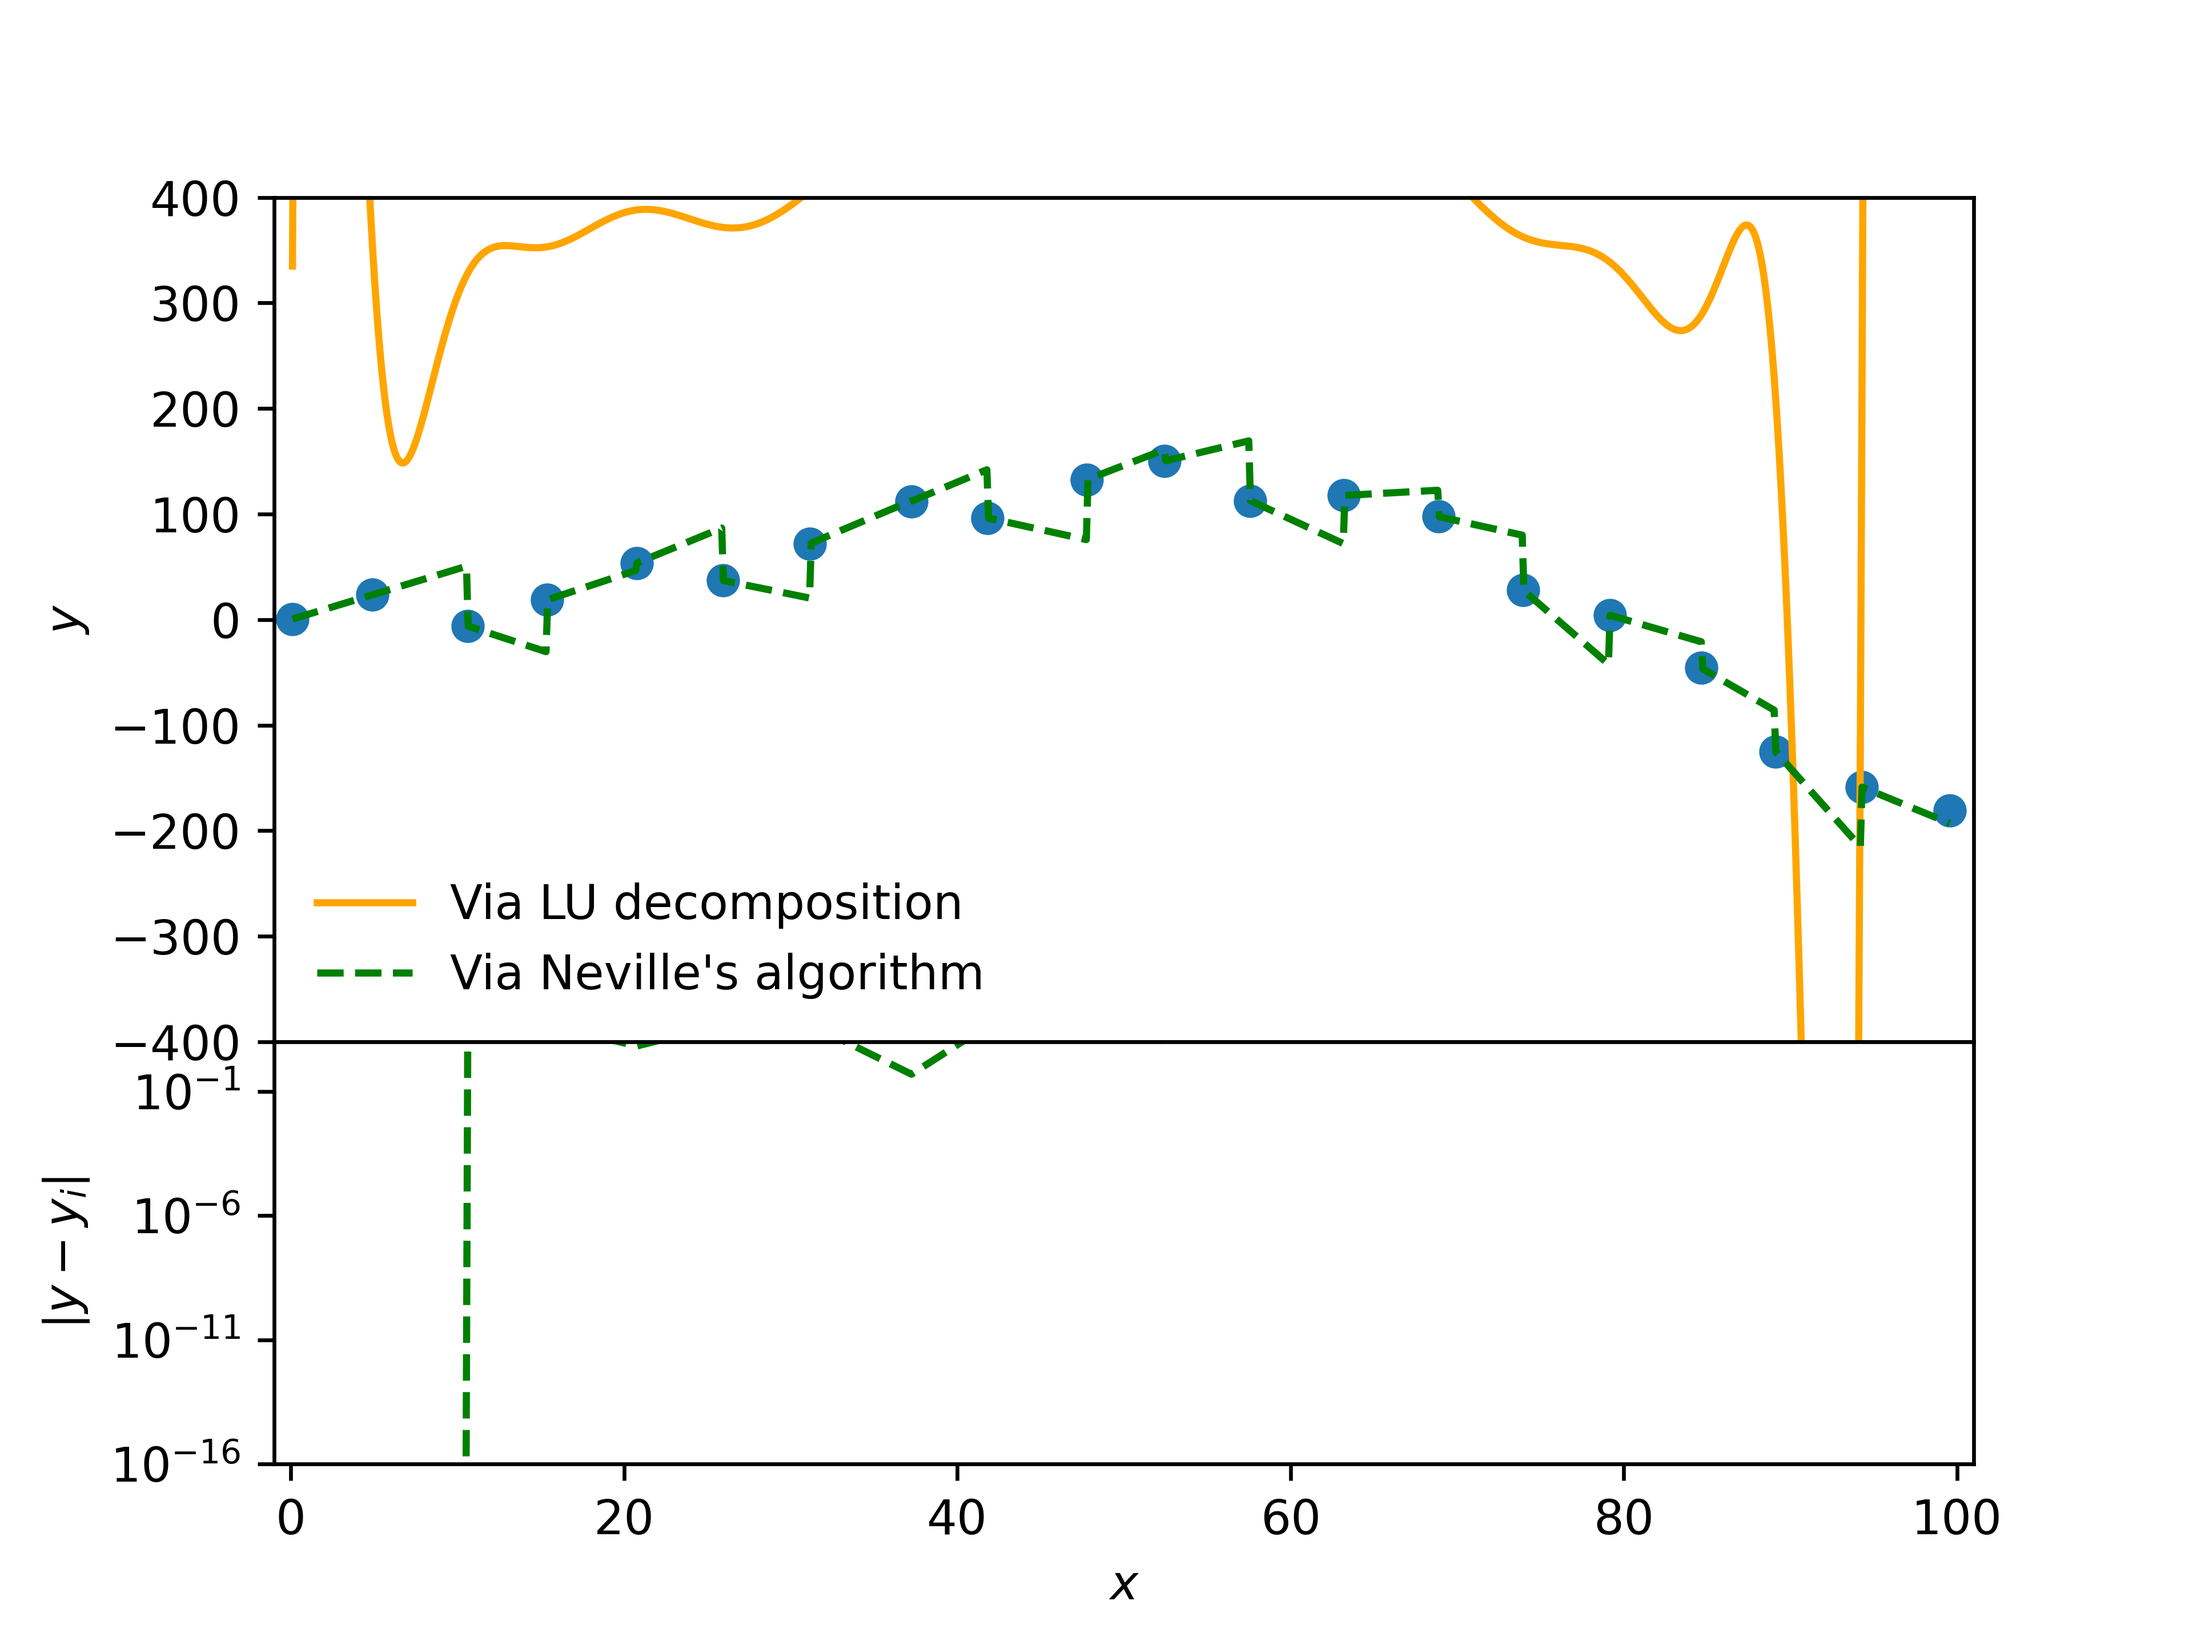
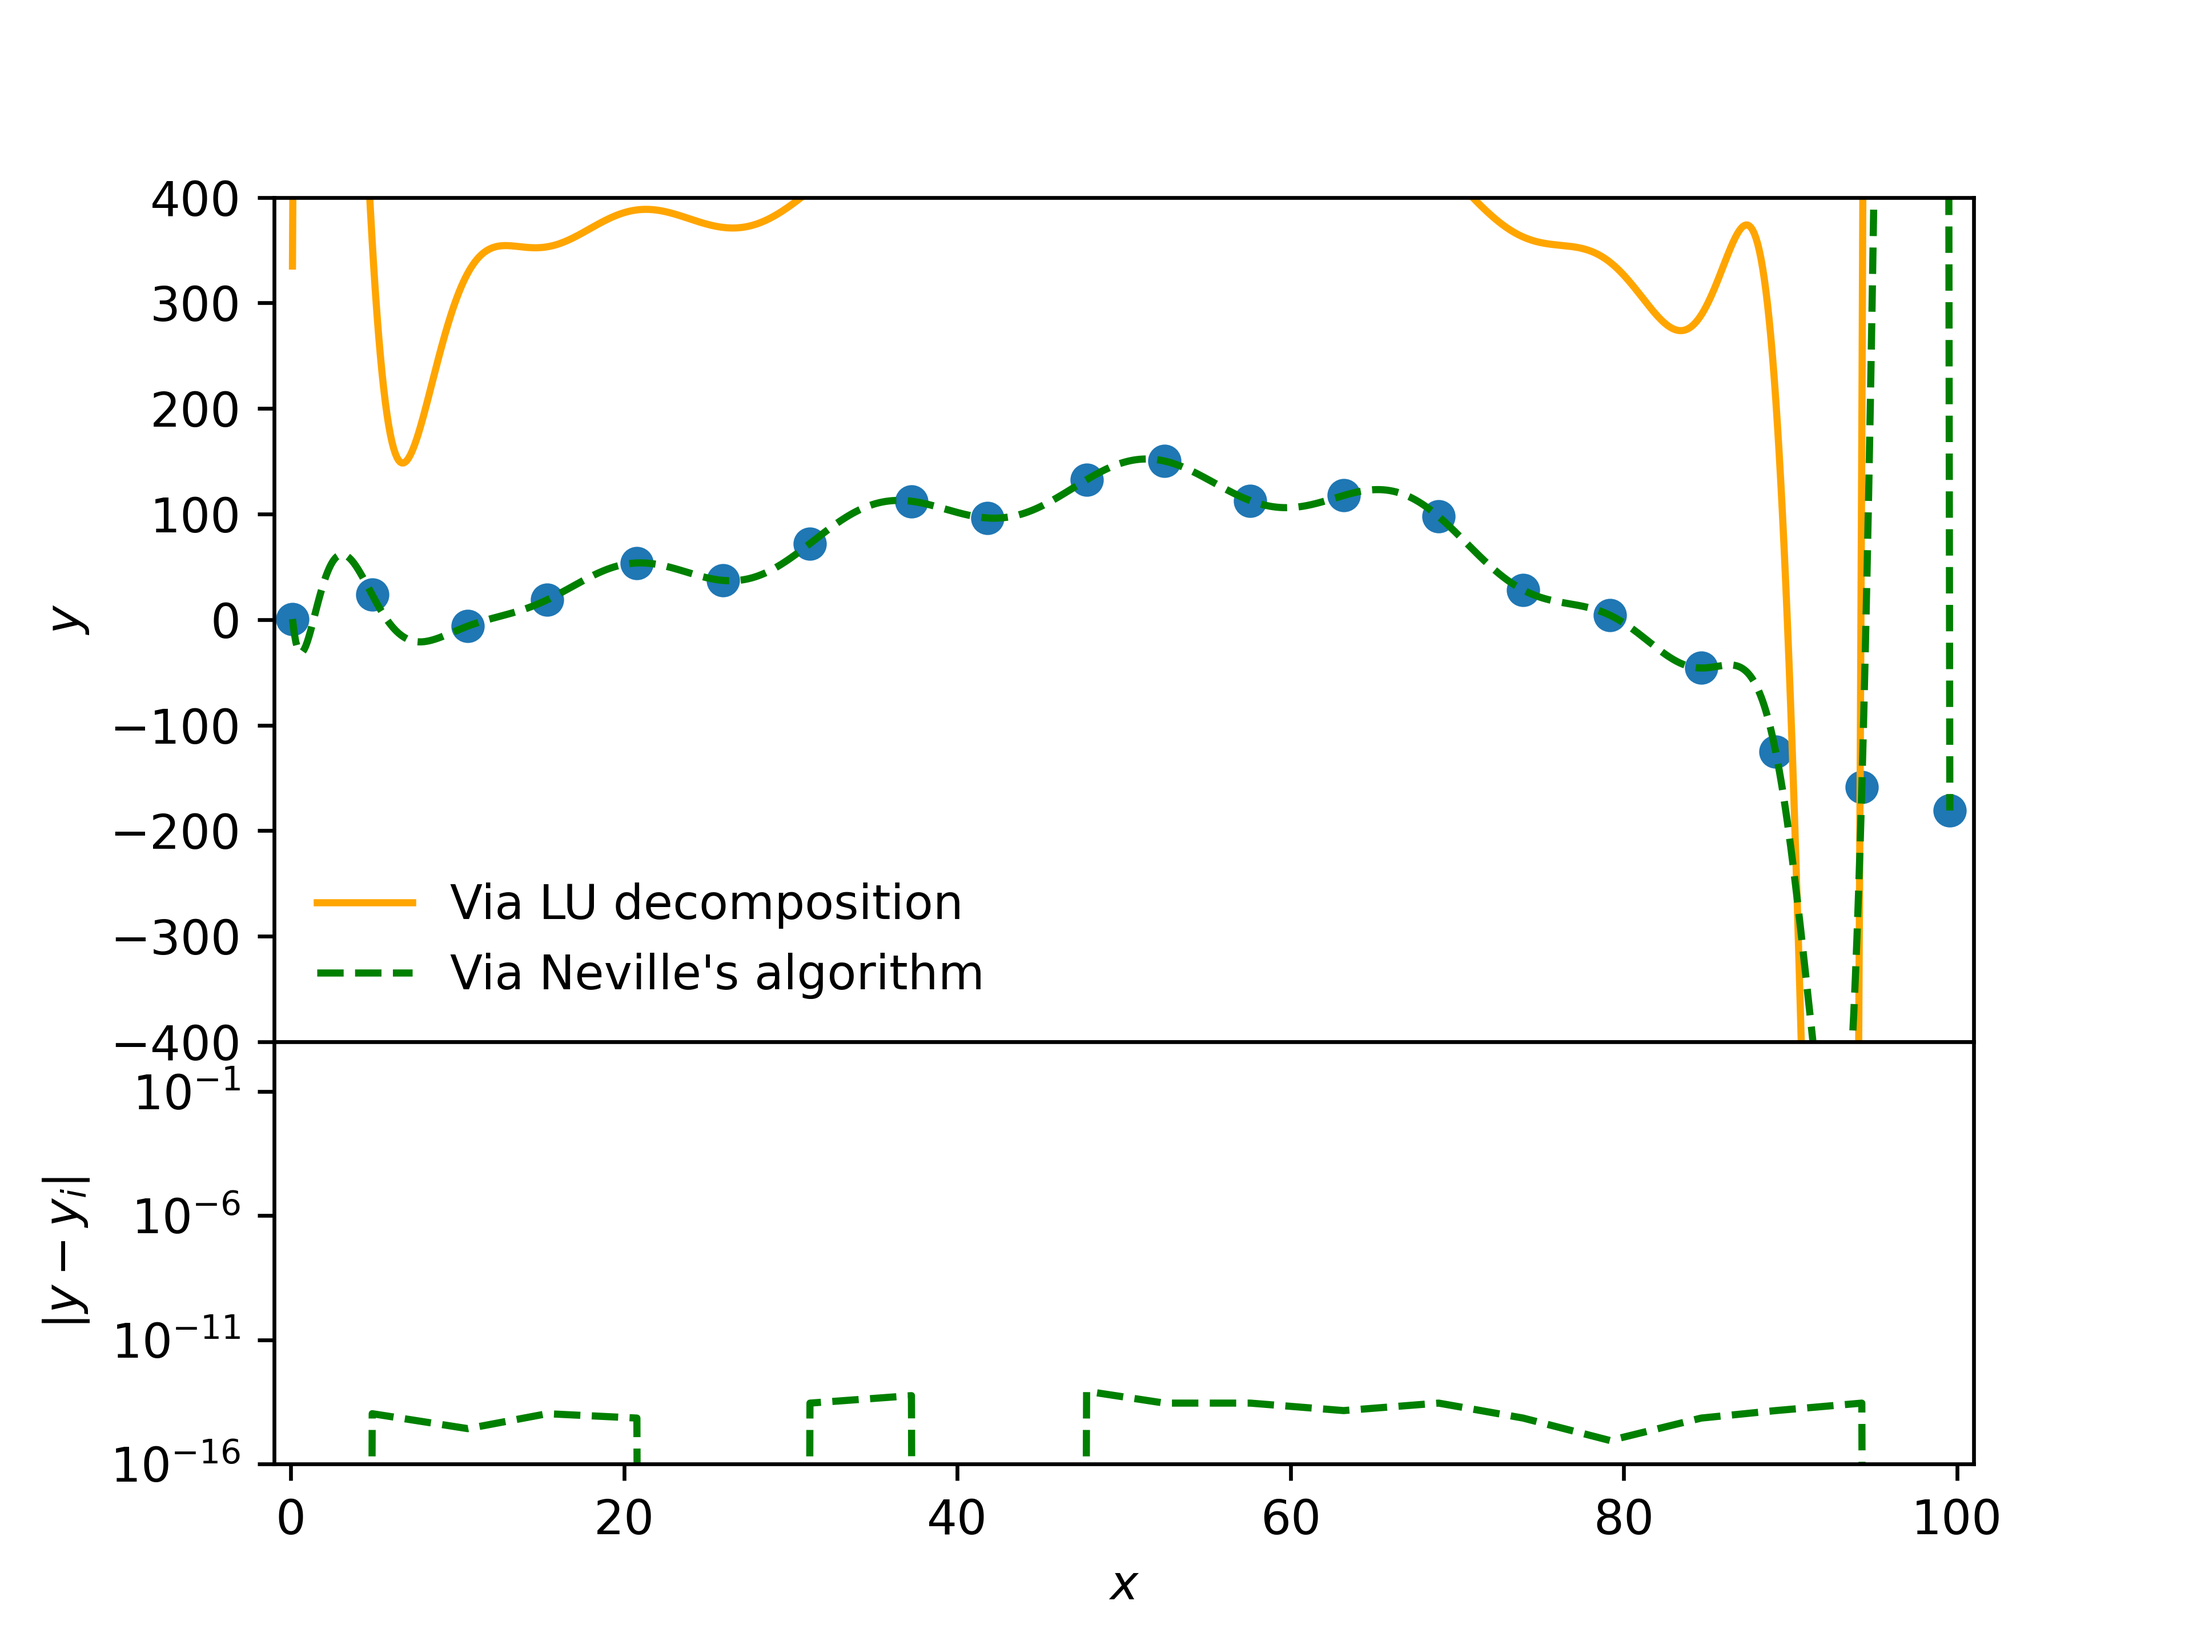
2a, 2b, 2c done (though results need to be checked)

diff --git a/2_vandermonde_matrix.py b/2_vandermonde_matrix.py
@@ -52,22 +52,28 @@ def solving_system_with_LU(LU:np.ndarray, b:np.array) -> np.array:
 
 # TODO Neville's algorithm
 
+# TODO
 def bisection(M:np.int64, x_samp:np.array, x_interp:np.array) -> np.ndarray:
 # Assumes x_samp are uniformly spaced
     if (M > x_samp.shape[0]):
         print("M is too large for the array x_samp")
-        return False
+        return
     for (i,x) in enumerate(x_interp):
         l_idx = np.int64(0)
         r_idx = np.int64(x_samp.shape[0]-1)
         while (r_idx - l_idx > 1):
-            m_idx = np.int64((l_idx + r_idx)*0.5)
+            m_idx = np.int64(np.floor((l_idx + r_idx)*0.5))
             if (x <= x_samp[m_idx]):
                 r_idx = m_idx
             elif (x > x_samp[m_idx]):
                 l_idx = m_idx
+        m = (x_samp[l_idx] + x_samp[r_idx])*0.5
         # Computing the left boundary index (ignoring range)
-        l_idx -= np.int64(np.floor(0.5*M))
+        l_idx -= np.int64(np.ceil(0.5*M-1))
+        # Correcting left boundary if x is closer to the right boundary 
+        # (in which case the right boundary is seen as the first point instead of the second)
+        if ((x > m) & (M % 2 == 1)):
+            l_idx += np.float64(1)
         # Checking range
         if l_idx < 0:
             l_idx = 0
@@ -76,25 +82,25 @@ def bisection(M:np.int64, x_samp:np.array, x_interp:np.array) -> np.ndarray:
         x_interp[i] = l_idx
     return np.int64(x_interp)
 
-def neville(M, x_samp, y_samp, x_interp):
+def neville(M:np.int64, x_samp:np.array, y_samp:np.array, x_interp:np.array) -> np.ndarray:
+    if (M < 1):
+        print("M is too small")
+        return
     # Finding left index of M tabulated points using bisection
-    l_indices = bisection(M, x_samp.copy(), x_interp.copy())
-    #y_samp = y_samp[np.newaxis,:]
+    l_indices = bisection(M, x_samp.copy(), x_interp.copy()) # correct!
     # Initializing matrix P
     Ps = np.zeros((x_interp.shape[0], M), dtype=np.float64)
     for i in range(M):
-        Ps[:,i] = y_samp[l_indices+i]
-    print(Ps)
+        Ps[:,i] = y_samp[l_indices+i] # correct!
     # Looping over orders k and current intervals
     for k in range(1, M):
-        for i in range(M-1-k):
-            j = i+k
-            Ps[:,i] = ((x_samp[l_indices+j]-x_interp)*Ps[:,i]+(x_interp-x_samp[l_indices+i])*Ps[:,j])/(x_samp[l_indices+j]-x_samp[l_indices+i])
+        for i in range(M-k):
+            j = i+k # note this j is only for the x_samp, as Ps is overwritten so just j=i+1 as index
+            Ps[:,i] = ((x_samp[l_indices+j]-x_interp)*Ps[:,i]+(x_interp-x_samp[l_indices+i])*Ps[:,i+1])/(x_samp[l_indices+j]-x_samp[l_indices+i])
+    if (M < 2):
+        return Ps[:,0], 0
     error_estimate = np.absolute(Ps[:,0]-Ps[:,1])
     return Ps[:,0], error_estimate
-
-# TODO something wrong with neville (bisection seems fine)
-# For lower M, result is better than for larger M (shouldnt be right)
 
 data=np.genfromtxt(os.path.join(sys.path[0],"Vandermonde.txt"),comments='#',dtype=np.float64)
 x=data[:,0]
@@ -121,7 +127,7 @@ LU_V = LU_decomposition(V.copy())
 #print(LU_V)
 
 # Solving for c
-c = solving_system_with_LU(LU_V, y.copy())
+c0 = solving_system_with_LU(LU_V, y.copy())
 #print(c)
 
 # Constructing the polynomial y
@@ -133,7 +139,23 @@ def polynomial(c, x):
 
 # 2b
 
-# 3b
+M=20
+
+# 2c
+
+# Iterative improvements
+# First iteration
+c = c0 - solving_system_with_LU(LU_V, (np.matmul(V,c0)-y).copy())
+c1 = c.copy()
+# Next nine iterations
+for i in range(9):
+    c -= solving_system_with_LU(LU_V, (np.matmul(V,c)-y).copy())
+c10 = c.copy()
+
+#TODO is matmul allowed?
+
+# 2d
+
 
 
 #The plotting code below assumes you've given the interpolated
@@ -144,14 +166,14 @@ def polynomial(c, x):
 #to the given points, not in between them)
 # yya=np.zeros(1001,dtype=np.float64) #replace!
 # ya=np.zeros(len(x),dtype=np.float64) #replace!
-yya = polynomial(c, xx)
-ya = polynomial(c, x)
-yyb = neville(3, x, y, xx)[0]
-yb = neville(3, x, y, x)[0]
-yyc1=yya #replace!
-yc1=ya #replace!
-yyc10=yya #replace!
-yc10=ya #replace!
+yya = polynomial(c0, xx)
+ya = polynomial(c0, x)
+yyb = neville(M, x, y, xx)[0]
+yb = neville(M, x, y, x)[0]
+yyc1 = polynomial(c1, xx)
+yc1 = polynomial(c1, x)
+yyc10 = polynomial(c10, xx)
+yc10 = polynomial(c10, x)
 
 #Don't forget to output the coefficients you find with your LU routine
 
